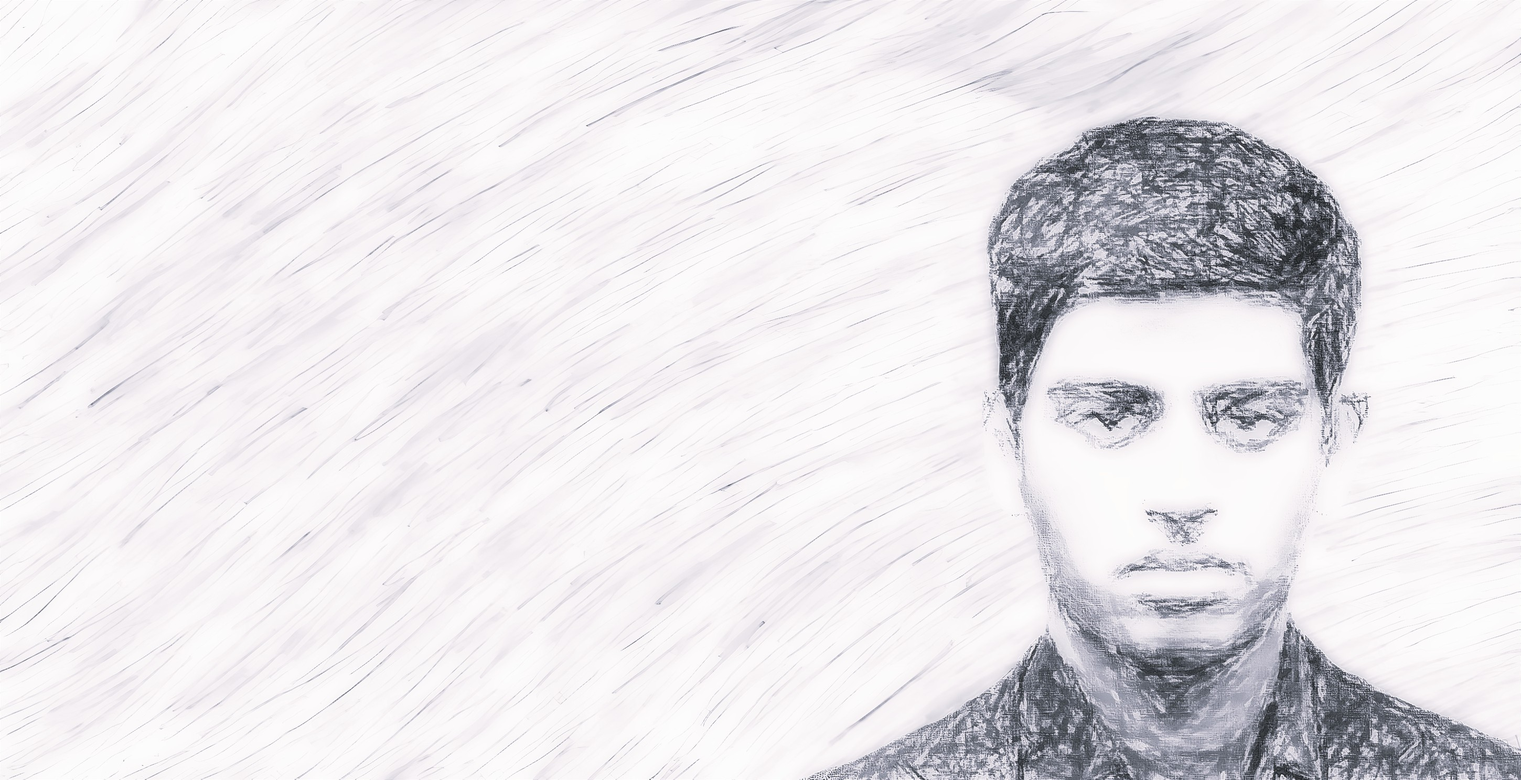
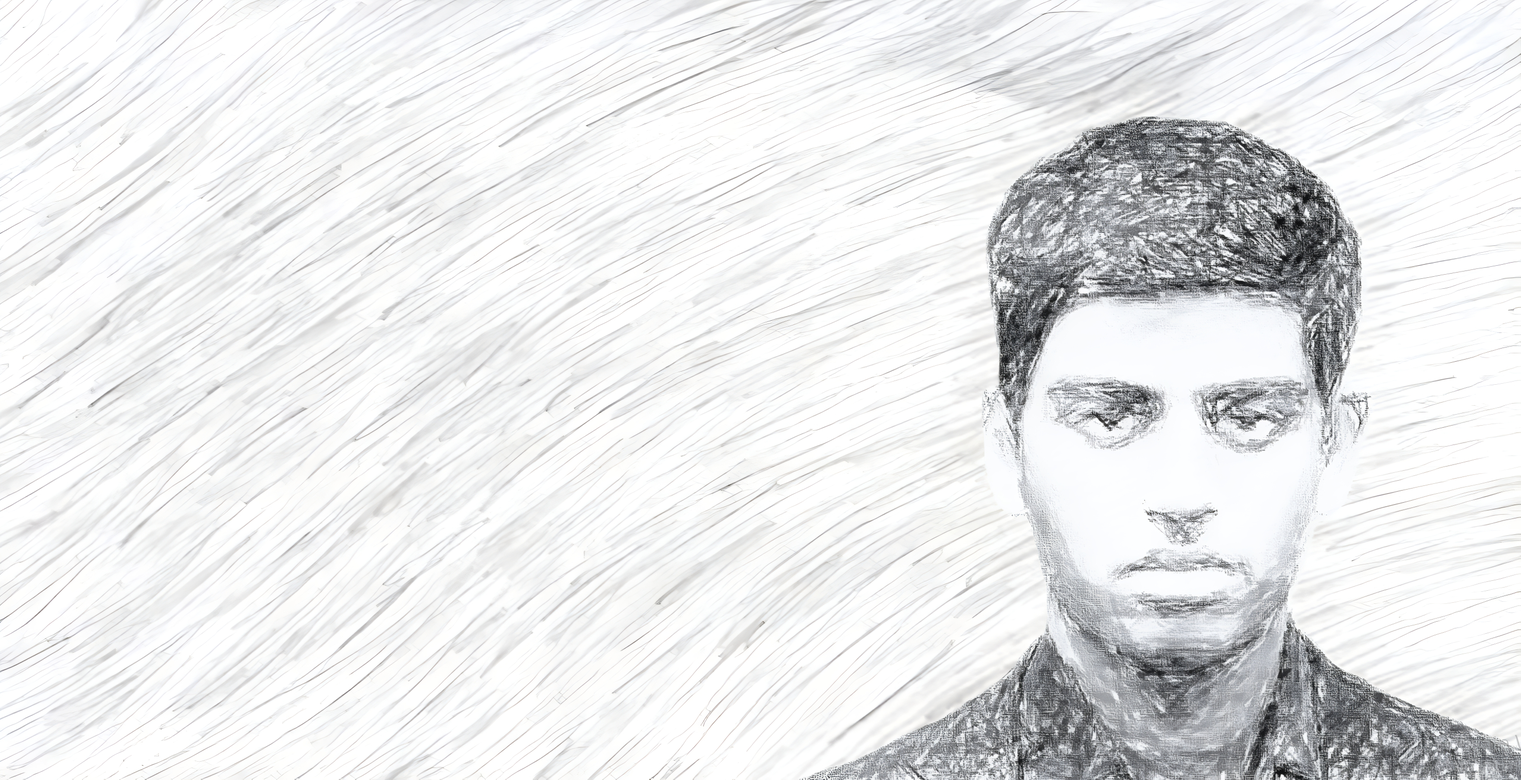
theme 3

diff --git a/styles.css b/styles.css
@@ -37,7 +37,7 @@ html, body {
     width: 100vw;
     height: 100vh;
     /* background-attachment: fixed; */
-    background-image: url('bg_3.jpg');
+    background-image: url('bg_2.jpg');
     background-position: bottom; /* Shows right side, crops left */
     background-size: 100vw auto; /* Covers full width, maintains aspect ratio, crops if too large */
     background-repeat: no-repeat;
@@ -99,43 +99,36 @@ html, body {
   pointer-events: none; /* Allow clicks to pass through if needed */
 }
 
-/* Show on mobile devices in portrait mode - using device characteristics */
-@media screen and (max-device-width: 896px) and (orientation: portrait) {
+/* ONLY show on touch devices (mobile/tablet) in portrait mode */
+@media (hover: none) and (pointer: coarse) and (orientation: portrait) {
   .portrait-overlay {
     display: flex;
   }
 }
 
-/* Alternative check for mobile devices using max-width and aspect ratio */
-@media screen and (max-width: 844px) and (max-aspect-ratio: 1/1) {
+/* Additional mobile-only detection for older devices */
+@media (max-device-width: 480px) and (orientation: portrait) {
   .portrait-overlay {
     display: flex;
   }
 }
 
-/* Additional check for very narrow screens (typical phone portrait) */
-@media screen and (max-width: 480px) {
-  .portrait-overlay {
-    display: flex;
-  }
-}
-
-/* Hide on landscape mode for mobile */
-@media screen and (max-device-width: 896px) and (orientation: landscape) {
+/* FORCE HIDE on devices with fine pointer control (desktop/laptop) */
+@media (hover: hover) and (pointer: fine) {
   .portrait-overlay {
     display: none !important;
   }
 }
 
-/* Force hide on larger screens (tablets and desktops) */
-@media screen and (min-width: 845px) and (min-device-width: 845px) {
+/* FORCE HIDE on larger screens regardless of other conditions */
+@media (min-width: 1024px) {
   .portrait-overlay {
     display: none !important;
   }
 }
 
-/* Additional desktop detection using hover capability */
-@media (hover: hover) and (pointer: fine) and (min-width: 845px) {
+/* FORCE HIDE when in landscape mode */
+@media (orientation: landscape) {
   .portrait-overlay {
     display: none !important;
   }

diff --git a/index.html b/index.html
@@ -11,10 +11,16 @@
         <title>Sujan Galpottage | Mechatronics Engineering</title>
         
         <script>
-            // Function to detect if we're on a mobile device
+            // Function to detect if we're on a mobile device (strict detection)
             function isMobileDevice() {
-                return /Android|webOS|iPhone|iPad|iPod|BlackBerry|IEMobile|Opera Mini/i.test(navigator.userAgent) ||
-                       (window.innerWidth <= 896 && 'ontouchstart' in window);
+                const userAgent = navigator.userAgent;
+                const isMobileUA = /Android|webOS|iPhone|iPad|iPod|BlackBerry|IEMobile|Opera Mini/i.test(userAgent);
+                const isTouchDevice = 'ontouchstart' in window && navigator.maxTouchPoints > 0;
+                const hasCoarsePointer = window.matchMedia('(pointer: coarse)').matches;
+                const hasNoHover = window.matchMedia('(hover: none)').matches;
+                
+                // Must be a touch device with coarse pointer (excludes laptops with touchscreens)
+                return isMobileUA && isTouchDevice && hasCoarsePointer && hasNoHover;
             }
 
             // Function to check if we're in portrait mode
